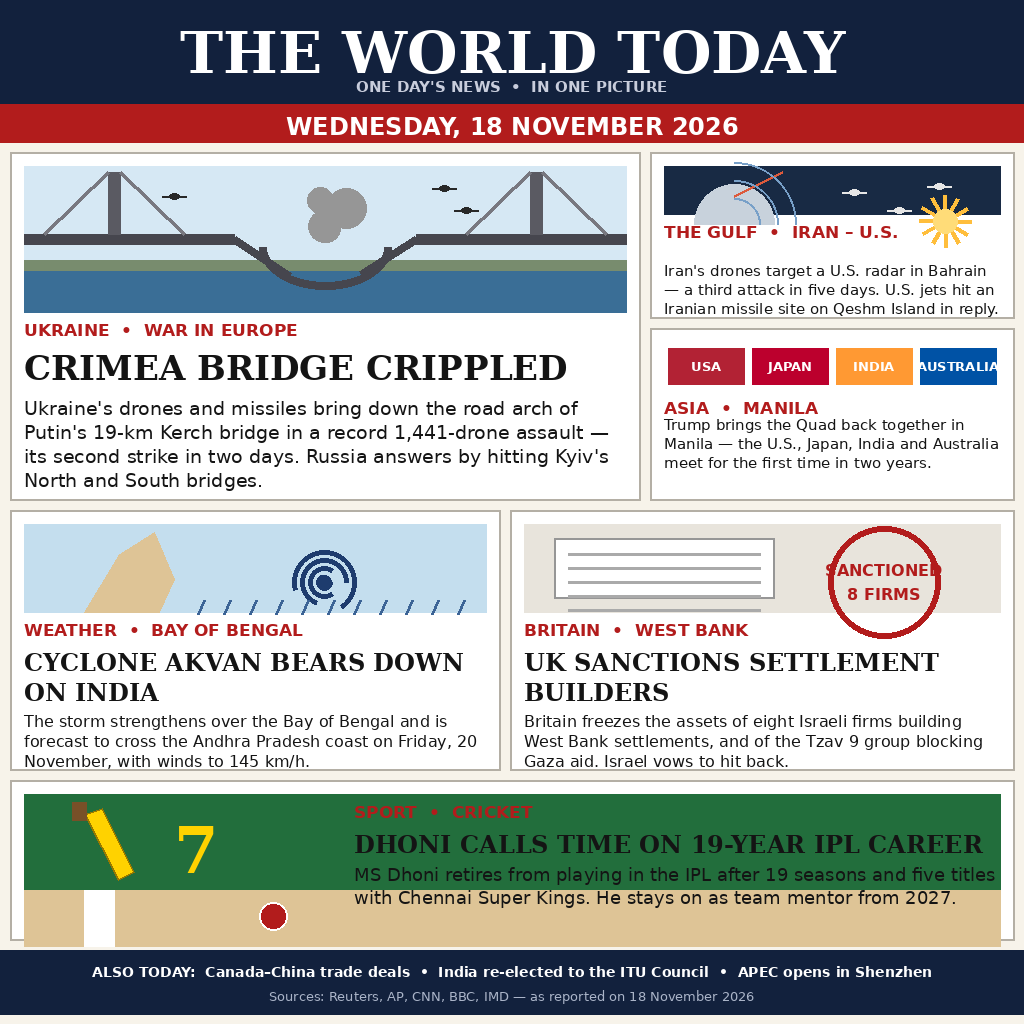
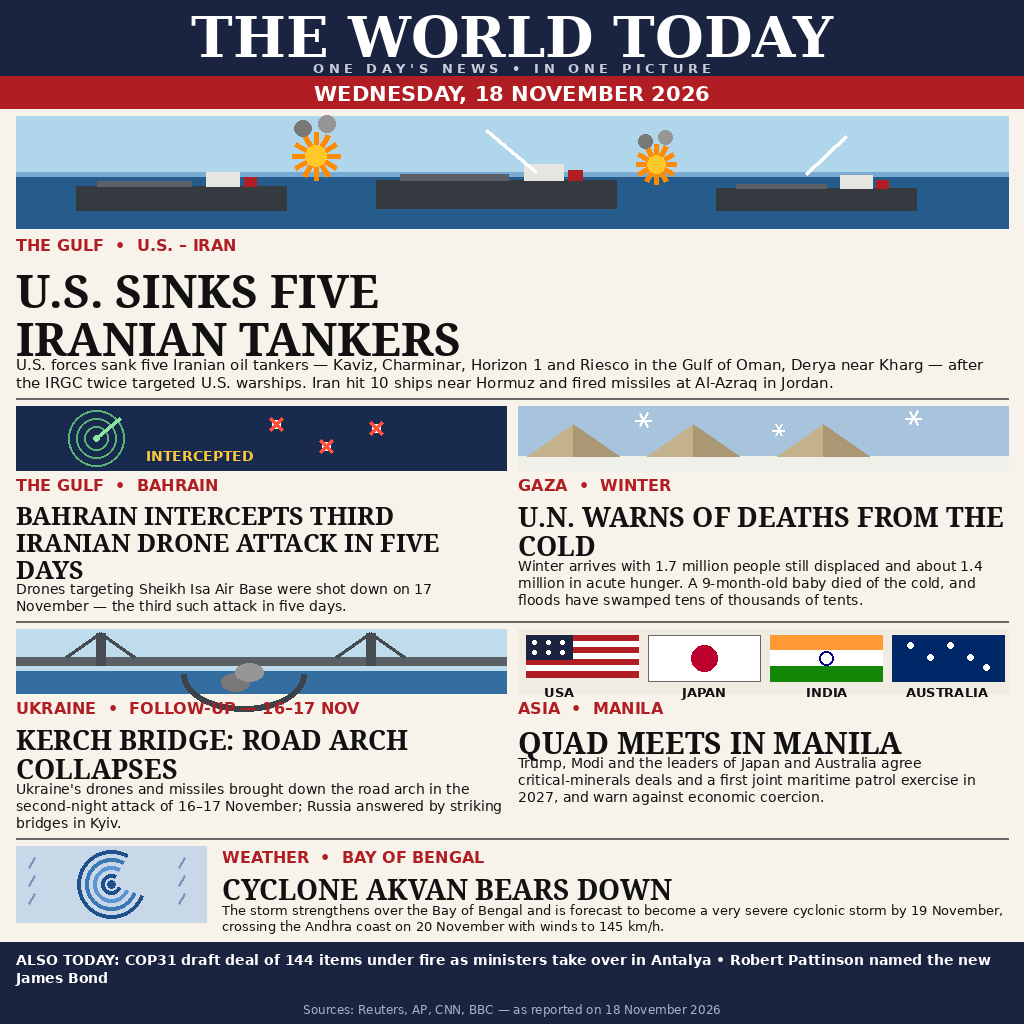
Rebuild: front page with the actual 18 Nov 2026 news (U.S. sinks five Iranian tankers as lead; Bahrain third drone attack; Gaza cold warning; Kerch follow-up 16-17 Nov; Quad in Manila; Cyclone Akvan)

diff --git a/main.ts b/main.ts
@@ -1,7 +1,12 @@
 // news-image-20261118: "The World Today" front page for Wednesday 18 November 2026.
-// The entry image is entry.png beside this file; this program copies it to the
-// grader's output directory. It runs with no network and no dependencies, so the
-// copy is the whole job — the image itself is the entry.
+// REBUILT 19 November 2026 with the actual 18 November news: the U.S. sinking
+// five Iranian tankers in the Gulf of Oman (lead), Bahrain intercepting a third
+// Iranian drone attack in five days, the U.N. warning of cold deaths in Gaza,
+// the Kerch bridge road-arch collapse as a 16-17 November follow-up, the Quad
+// meeting in Manila, and Cyclone Akvan bearing down on India. The entry image
+// is entry.png beside this file (drawn by draw.py, 1024x1024 PNG); this program
+// copies it to the grader's output directory. It runs with no network and no
+// dependencies, so the copy is the whole job — the image itself is the entry.
 //
 // Local test:  mkdir -p out && MAKEFUN_OUTPUT_DIR=out node main.ts
 

diff --git a/draw.py b/draw.py
@@ -1,0 +1,321 @@
+#!/usr/bin/env python3
+"""Draw the rebuilt news-image-20261118 front page: THE WORLD TODAY,
+Wednesday 18 November 2026. Deterministic: same input -> same bytes.
+Run: python3 draw.py  (writes entry.png, 1024x1024 PNG, next to this file)
+"""
+import math
+from PIL import Image, ImageDraw, ImageFont
+
+W, H = 1024, 1024
+M = 16                      # side margin
+G = 12                      # gutter between columns
+NAVY = (26, 35, 64)
+RED = (176, 30, 36)
+PAPER = (247, 243, 234)
+INK = (17, 17, 17)
+GREY = (102, 102, 102)
+
+SERIF_B = "/usr/share/fonts/truetype/dejavu/DejaVuSerif-Bold.ttf"
+NOTO_B = "/usr/share/fonts/truetype/noto/NotoSerif-Bold.ttf"
+SANS = "/usr/share/fonts/truetype/dejavu/DejaVuSans.ttf"
+SANS_B = "/usr/share/fonts/truetype/dejavu/DejaVuSans-Bold.ttf"
+
+
+def font(path, size):
+    return ImageFont.truetype(path, size)
+
+
+def wrap(text, fnt, max_w):
+    """Greedy word wrap; returns a list of lines that fit max_w."""
+    words = text.split()
+    lines, cur = [], ""
+    for w in words:
+        trial = (cur + " " + w).strip()
+        if fnt.getlength(trial) <= max_w or not cur:
+            cur = trial
+        else:
+            lines.append(cur)
+            cur = w
+    if cur:
+        lines.append(cur)
+    return lines
+
+
+def draw_lines(d, x, y, lines, fnt, fill, spacing=1.18):
+    """Draw lines of text; return y just below the last line."""
+    lh = int(fnt.size * spacing)
+    for ln in lines:
+        d.text((x, y), ln, font=fnt, fill=fill)
+        y += lh
+    return y
+
+
+def headline_block(d, x, y, text, max_w, max_lines, start, fnt_path):
+    """Headline, shrinking the font until it fits max_lines.
+    Returns y just below the last line."""
+    size = start
+    while size > 14:
+        fnt = font(fnt_path, size)
+        if len(wrap(text, fnt, max_w)) <= max_lines:
+            break
+        size -= 1
+    fnt = font(fnt_path, size)
+    return draw_lines(d, x, y, wrap(text, fnt, max_w), fnt, INK, 1.08)
+
+
+def kicker(d, x, y, text, size=16):
+    fnt = font(SANS_B, size)
+    d.text((x, y), text, font=fnt, fill=RED)
+    return y + int(size * 1.25)
+
+
+def body_block(d, x, y, text, max_w, size=14, max_lines=3):
+    fnt = font(SANS, size)
+    lines = wrap(text, fnt, max_w)[:max_lines]
+    return draw_lines(d, x, y, lines, fnt, INK, 1.25)
+
+
+def explosion(d, cx, cy, r):
+    """Orange/yellow starburst + grey smoke."""
+    for ang in range(0, 360, 30):
+        a = math.radians(ang)
+        d.line([(cx, cy), (cx + r * math.cos(a), cy + r * math.sin(a))],
+               fill=(255, 140, 0), width=5)
+    d.ellipse([cx - r * 0.45, cy - r * 0.45, cx + r * 0.45, cy + r * 0.45],
+              fill=(255, 200, 40))
+    d.ellipse([cx - r * 0.9, cy - r * 1.5, cx - r * 0.2, cy - r * 0.8],
+              fill=(120, 120, 120))
+    d.ellipse([cx + r * 0.1, cy - r * 1.7, cx + r * 0.8, cy - r * 1.0],
+              fill=(150, 150, 150))
+
+
+def tanker(d, x, y, w, h, hull=(52, 58, 64)):
+    """Flat tanker silhouette: hull + deck + superstructure + funnel."""
+    d.rectangle([x, y, x + w, y + h], fill=hull)
+    d.rectangle([x + w * 0.62, y - h * 0.55, x + w * 0.78, y], fill=(230, 230, 225))
+    d.rectangle([x + w * 0.80, y - h * 0.35, x + w * 0.86, y], fill=(176, 30, 36))
+    d.rectangle([x + w * 0.10, y - h * 0.18, x + w * 0.55, y], fill=(90, 96, 102))
+
+
+def snowflake(d, cx, cy, r, fill=(255, 255, 255), width=2):
+    for ang in (0, 60, 120):
+        a = math.radians(ang)
+        d.line([(cx - r * math.cos(a), cy - r * math.sin(a)),
+                (cx + r * math.cos(a), cy + r * math.sin(a))], fill=fill, width=width)
+
+
+def story(d, x, y, col_w, ill_h, kicker_text, headline, head_size,
+          head_lines, body_text, body_size=14, body_lines=3):
+    """A column story: illustration box (caller draws into it), kicker,
+    headline, body. Returns y just below the body. Caller must draw the
+    illustration in the box (x, y, x+col_w, y+ill_h) before calling, or
+    pass ill_h=0 for none. Here the illustration is drawn by the caller
+    first; this lays out the text below it."""
+    yy = y + ill_h + 6
+    yy = kicker(d, x, yy, kicker_text)
+    yy = headline_block(d, x, yy + 2, headline, col_w, head_lines,
+                        head_size, NOTO_B)
+    yy = body_block(d, x, yy + 2, body_text, col_w, body_size, body_lines)
+    return yy
+
+
+def main():
+    img = Image.new("RGB", (W, H), PAPER)
+    d = ImageDraw.Draw(img)
+    y = 0
+
+    # ---- masthead ------------------------------------------------------
+    d.rectangle([0, 0, W, 76], fill=NAVY)
+    f = font(SERIF_B, 56)
+    t = "THE WORLD TODAY"
+    d.text(((W - f.getlength(t)) / 2, 4), t, font=f, fill=(255, 255, 255))
+    f = font(SANS_B, 13)
+    t = "O N E   D A Y ' S   N E W S   •   I N   O N E   P I C T U R E"
+    d.text(((W - f.getlength(t)) / 2, 60), t, font=f, fill=(200, 205, 220))
+    y = 76
+
+    # ---- date band ------------------------------------------------------
+    d.rectangle([0, y, W, y + 32], fill=RED)
+    f = font(SANS_B, 21)
+    t = "WEDNESDAY, 18 NOVEMBER 2026"
+    d.text(((W - f.getlength(t)) / 2, y + 5), t, font=f, fill=(255, 255, 255))
+    y += 32
+
+    # ---- LEAD: U.S. sinks five Iranian tankers --------------------------
+    lx, lw = M, W - 2 * M
+    iy0 = y + 8
+    iy1 = iy0 + 112
+    d.rectangle([lx, iy0, lx + lw, iy1], fill=(176, 214, 235))
+    d.rectangle([lx, iy1 - 56, lx + lw, iy1], fill=(38, 92, 140))
+    d.rectangle([lx, iy1 - 56, lx + lw, iy1 - 52], fill=(120, 170, 210))
+    tanker(d, lx + 60, iy1 - 42, 210, 24)
+    tanker(d, lx + 360, iy1 - 48, 240, 28)
+    tanker(d, lx + 700, iy1 - 40, 200, 22)
+    explosion(d, lx + 300, iy1 - 72, 24)
+    explosion(d, lx + 640, iy1 - 64, 20)
+    d.line([(lx + 470, iy0 + 14), (lx + 520, iy0 + 56)], fill=(255, 255, 255), width=3)
+    d.line([(lx + 830, iy0 + 20), (lx + 790, iy0 + 58)], fill=(255, 255, 255), width=3)
+    yy = kicker(d, lx, iy1 + 8, "THE GULF  •  U.S. – IRAN")
+    # two-line lead headline, drawn explicitly at 46 pt
+    f = font(NOTO_B, 46)
+    yy = draw_lines(d, lx, yy + 2, ["U.S. SINKS FIVE", "IRANIAN TANKERS"],
+                    f, INK, 1.06)
+    yy = body_block(d, lx, yy + 2,
+                    "U.S. forces sank five Iranian oil tankers — Kaviz, Charminar, "
+                    "Horizon 1 and Riesco in the Gulf of Oman, Derya near Kharg — "
+                    "after the IRGC twice targeted U.S. warships. Iran hit 10 ships "
+                    "near Hormuz and fired missiles at Al-Azraq in Jordan.",
+                    lw, 15, 2)
+    y = yy + 6
+    d.line([M, y, W - M, y], fill=GREY, width=2)
+    y += 8
+
+    # ---- row 2: Bahrain | Gaza -------------------------------------------
+    col_w = (W - 2 * M - G) // 2
+    rx = M + col_w + G
+    row_y = y
+    ill_h = 64
+    # Bahrain illustration: radar panel
+    bx0, by0, bx1, by1 = M, row_y, M + col_w, row_y + ill_h
+    d.rectangle([bx0, by0, bx1, by1], fill=(24, 42, 78))
+    cx, cy = bx0 + 80, by0 + 32
+    for r in (28, 20, 12):
+        d.ellipse([cx - r, cy - r, cx + r, cy + r], outline=(90, 180, 120), width=2)
+    d.line([(cx, cy), (cx + 24, cy - 20)], fill=(140, 230, 160), width=3)
+    d.ellipse([cx - 3, cy - 3, cx + 3, cy + 3], fill=(140, 230, 160))
+    for dx, dy in ((260, 18), (310, 40), (360, 22)):
+        d.ellipse([bx0 + dx - 4, by0 + dy - 4, bx0 + dx + 4, by0 + dy + 4],
+                  fill=(255, 255, 255))
+        d.line([(bx0 + dx - 6, by0 + dy - 6), (bx0 + dx + 6, by0 + dy + 6)],
+               fill=(255, 80, 60), width=3)
+        d.line([(bx0 + dx - 6, by0 + dy + 6), (bx0 + dx + 6, by0 + dy - 6)],
+               fill=(255, 80, 60), width=3)
+    d.text((bx0 + 130, by0 + 42), "INTERCEPTED", font=font(SANS_B, 14),
+           fill=(255, 200, 60))
+    # Gaza illustration: tents + snow
+    gx0, gy0, gx1, gy1 = rx, row_y, rx + col_w, row_y + ill_h
+    d.rectangle([gx0, gy0, gx1, gy1], fill=(168, 196, 220))
+    d.rectangle([gx0, gy1 - 14, gx1, gy1], fill=(240, 240, 235))
+    for tx in (gx0 + 55, gx0 + 175, gx0 + 305):
+        d.polygon([(tx, gy0 + 18), (tx + 46, gy1 - 14), (tx - 46, gy1 - 14)],
+                  fill=(196, 178, 140))
+        d.polygon([(tx, gy0 + 18), (tx + 46, gy1 - 14), (tx, gy1 - 14)],
+                  fill=(170, 152, 116))
+    snowflake(d, gx0 + 125, gy0 + 14, 8)
+    snowflake(d, gx0 + 260, gy0 + 24, 6)
+    snowflake(d, gx0 + 395, gy0 + 12, 8)
+    y1 = story(d, M, row_y, col_w, ill_h, "THE GULF  •  BAHRAIN",
+               "BAHRAIN INTERCEPTS THIRD IRANIAN DRONE ATTACK IN FIVE DAYS",
+               25, 3,
+               "Drones targeting Sheikh Isa Air Base were shot down on "
+               "17 November — the third such attack in five days.", 14, 2)
+    y2 = story(d, rx, row_y, col_w, ill_h, "GAZA  •  WINTER",
+               "U.N. WARNS OF DEATHS FROM THE COLD", 27, 2,
+               "Winter arrives with 1.7 million people still displaced and "
+               "about 1.4 million in acute hunger. A 9-month-old baby died of "
+               "the cold, and floods have swamped tens of thousands of tents.",
+               14, 3)
+    y = max(y1, y2) + 6
+    d.line([M, y, W - M, y], fill=GREY, width=2)
+    y += 8
+
+    # ---- row 3: Kerch (follow-up) | Quad ---------------------------------
+    row_y = y
+    kx0, ky0, kx1, ky1 = M, row_y, M + col_w, row_y + ill_h
+    d.rectangle([kx0, ky0, kx1, ky1], fill=(190, 220, 235))
+    d.rectangle([kx0, ky1 - 22, kx1, ky1], fill=(52, 110, 160))
+    d.rectangle([kx0, ky0 + 28, kx1, ky0 + 36], fill=(90, 96, 102))
+    for tx in (kx0 + 80, kx0 + 350):
+        d.rectangle([tx, ky0 + 4, tx + 9, ky0 + 36], fill=(70, 76, 82))
+        d.line([(tx + 4, ky0 + 4), (tx - 30, ky0 + 28)], fill=(70, 76, 82), width=3)
+        d.line([(tx + 4, ky0 + 4), (tx + 38, ky0 + 28)], fill=(70, 76, 82), width=3)
+    d.arc([kx0 + 165, ky0 + 8, kx0 + 290, ky0 + 82], 0, 180,
+          fill=(60, 66, 72), width=6)
+    d.ellipse([kx0 + 205, ky0 + 44, kx0 + 233, ky0 + 62], fill=(120, 120, 120))
+    d.ellipse([kx0 + 219, ky0 + 34, kx0 + 247, ky0 + 52], fill=(150, 150, 150))
+    # Quad flags
+    qx0, qy0, qx1, qy1 = rx, row_y, rx + col_w, row_y + ill_h
+    d.rectangle([qx0, qy0, qx1, qy1], fill=(240, 236, 226))
+    fw, fh, gap = 112, 46, 10
+    fx, fy = qx0 + 8, qy0 + 6
+    for i in range(7):
+        d.rectangle([fx, fy + i * 6, fx + fw, fy + i * 6 + 6],
+                    fill=(176, 30, 36) if i % 2 == 0 else (255, 255, 255))
+    d.rectangle([fx, fy, fx + 46, fy + 24], fill=(26, 35, 64))
+    for sx in range(3):
+        for sy in range(2):
+            d.ellipse([fx + 6 + sx * 14, fy + 5 + sy * 10,
+                       fx + 10 + sx * 14, fy + 9 + sy * 10], fill=(255, 255, 255))
+    d.text((fx + 18, fy + fh + 3), "USA", font=font(SANS_B, 13), fill=INK)
+    fx += fw + gap
+    d.rectangle([fx, fy, fx + fw, fy + fh], fill=(255, 255, 255), outline=GREY)
+    d.ellipse([fx + fw // 2 - 13, fy + fh // 2 - 13, fx + fw // 2 + 13,
+               fy + fh // 2 + 13], fill=(188, 0, 45))
+    d.text((fx + 34, fy + fh + 3), "JAPAN", font=font(SANS_B, 13), fill=INK)
+    fx += fw + gap
+    d.rectangle([fx, fy, fx + fw, fy + 15], fill=(255, 153, 51))
+    d.rectangle([fx, fy + 15, fx + fw, fy + 31], fill=(255, 255, 255))
+    d.rectangle([fx, fy + 31, fx + fw, fy + fh], fill=(19, 136, 8))
+    d.ellipse([fx + fw // 2 - 7, fy + fh // 2 - 7, fx + fw // 2 + 7,
+               fy + fh // 2 + 7], outline=(0, 0, 128), width=2)
+    d.text((fx + 36, fy + fh + 3), "INDIA", font=font(SANS_B, 13), fill=INK)
+    fx += fw + gap
+    d.rectangle([fx, fy, fx + fw, fy + fh], fill=(0, 40, 104))
+    for sx, sy in ((18, 10), (38, 22), (58, 10), (78, 22), (94, 32)):
+        d.ellipse([fx + sx - 3, fy + sy - 3, fx + sx + 3, fy + sy + 3],
+                  fill=(255, 255, 255))
+    d.text((fx + 14, fy + fh + 3), "AUSTRALIA", font=font(SANS_B, 13), fill=INK)
+    y1 = story(d, M, row_y, col_w, ill_h, "UKRAINE  •  FOLLOW-UP — 16–17 NOV",
+               "KERCH BRIDGE: ROAD ARCH COLLAPSES", 27, 2,
+               "Ukraine's drones and missiles brought down the road arch in "
+               "the second-night attack of 16–17 November; Russia answered "
+               "by striking bridges in Kyiv.", 14, 3)
+    y2 = story(d, rx, row_y, col_w, ill_h, "ASIA  •  MANILA",
+               "QUAD MEETS IN MANILA", 30, 1,
+               "Trump, Modi and the leaders of Japan and Australia agree "
+               "critical-minerals deals and a first joint maritime patrol "
+               "exercise in 2027, and warn against economic coercion.", 14, 3)
+    y = max(y1, y2) + 6
+    d.line([M, y, W - M, y], fill=GREY, width=2)
+    y += 8
+
+    # ---- row 4: Cyclone Akvan band -----------------------------------------
+    ax0, ay0, ax1, ay1 = M, y, M + 190, y + 76
+    d.rectangle([ax0, ay0, ax1, ay1], fill=(200, 216, 232))
+    cx, cy = ax0 + 95, ay0 + 38
+    for r, col in ((34, (30, 80, 140)), (26, (60, 120, 180)),
+                   (18, (90, 150, 210)), (10, (30, 80, 140))):
+        d.arc([cx - r, cy - r, cx + r, cy + r], 20, 300, fill=col, width=4)
+    d.ellipse([cx - 4, cy - 4, cx + 4, cy + 4], fill=(30, 80, 140))
+    for dx in (ax0 + 18, ax0 + 168):
+        for dy in (ay0 + 12, ay0 + 30, ay0 + 48):
+            d.line([(dx, dy), (dx - 6, dy + 10)], fill=(120, 150, 190), width=2)
+    tx = M + 206
+    yy = kicker(d, tx, y + 2, "WEATHER  •  BAY OF BENGAL")
+    yy = headline_block(d, tx, yy + 2, "CYCLONE AKVAN BEARS DOWN",
+                        W - M - tx, 1, 28, NOTO_B)
+    yy = body_block(d, tx, yy + 2,
+                    "The storm strengthens over the Bay of Bengal and is forecast "
+                    "to become a very severe cyclonic storm by 19 November, "
+                    "crossing the Andhra coast on 20 November with winds to "
+                    "145 km/h.", W - M - tx, 13, 2)
+    y = max(yy, ay1) + 8
+
+    # ---- footer ------------------------------------------------------------
+    d.rectangle([0, y, W, H], fill=NAVY)
+    f = font(SANS_B, 14)
+    t = ("ALSO TODAY:  COP31 draft deal of 144 items under fire as ministers "
+         "take over in Antalya  •  Robert Pattinson named the new James Bond")
+    yy = y + 10
+    for ln in wrap(t, f, W - 2 * M):
+        d.text((M, yy), ln, font=f, fill=(255, 255, 255))
+        yy += 18
+    f = font(SANS, 12)
+    t = "Sources: Reuters, AP, CNN, BBC — as reported on 18 November 2026"
+    d.text(((W - f.getlength(t)) / 2, H - 22), t, font=f, fill=(170, 178, 200))
+
+    img.save("entry.png", format="PNG", optimize=True)
+
+
+if __name__ == "__main__":
+    main()

diff --git a/README.md b/README.md
@@ -6,6 +6,8 @@
 
 Entry for the [make.fun](https://make.fun) bounty [Sum up 18 November's world news in one image](https://make.fun/bounty/news-image-20261118) — $250 USDC, top 50 paid.
 
-A program that writes one 1024×1024 image summing up the world's news of Wednesday 18 November 2026 to `/output/entry.png`: a newspaper front page — the Kerch Bridge crippled, Iran–US strikes in the Gulf, Trump bringing the Quad back together in Manila, Cyclone Akvan over the Bay of Bengal, UK sanctions on West Bank settlement builders, and MS Dhoni's IPL retirement.
+A program that writes one 1024×1024 image summing up the world's news of Wednesday 18 November 2026 to `/output/entry.png`: a newspaper front page — the U.S. sinking five Iranian tankers in the Gulf of Oman, Bahrain intercepting a third Iranian drone attack in five days, the U.N. warning of deaths from the cold in Gaza, the Kerch bridge road-arch collapse (as a 16–17 November follow-up), the Quad meeting in Manila, and Cyclone Akvan bearing down on India. Also today: the COP31 draft deal of 144 items under fire in Antalya, and Robert Pattinson named the new James Bond.
+
+Rebuilt 19 November 2026 with the actual 18 November news (the first entry, filed early on 18 November, was mostly 17 November news).
 
 Run it with `mkdir -p out && MAKEFUN_OUTPUT_DIR=out node main.ts`. Deterministic: every run writes the same bytes, with no network.
